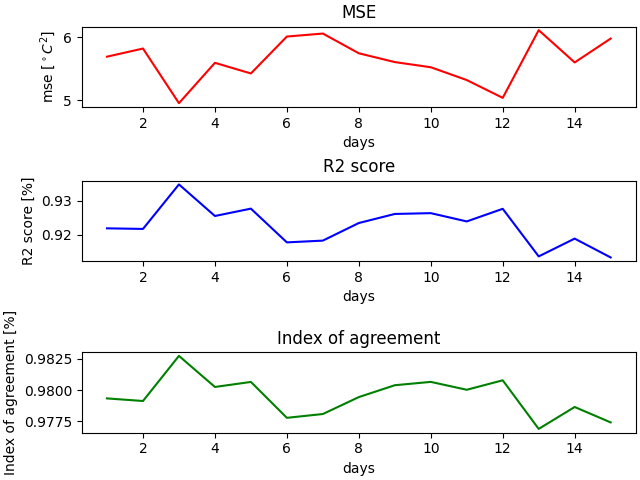
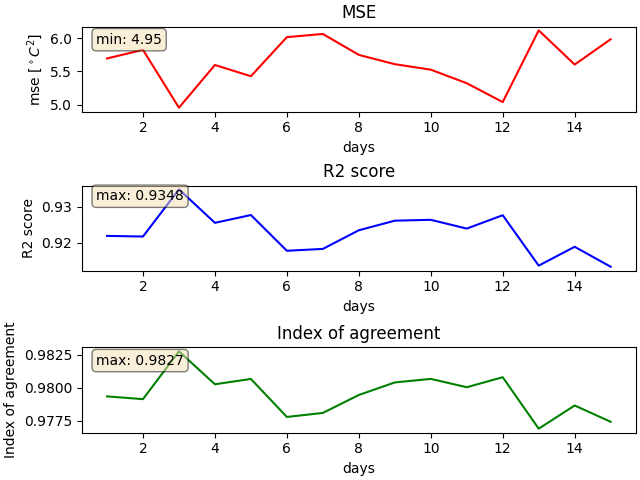
RFR

diff --git a/RFR_MSE.py b/RFR_MSE.py
@@ -13,7 +13,7 @@ def main():
     r2score = []
     ia = []
     feature_names = []
-    n = 15
+    n = 100
     for i in range(n):
         x, y = get_xy(i+1)
 
@@ -39,31 +39,35 @@ def main():
         r2score.append(r2_score(y_test, y_pred_LR))
 
     fig, axs = plt.subplots(3, 1, constrained_layout=True)
+    props = dict(boxstyle='round', facecolor='wheat', alpha=0.5)
 
     axs[0].plot([i + 1 for i in range(n)], mse, color="red")
     axs[0].set_title('MSE')
     axs[0].set_xlabel('days')
     axs[0].set_ylabel("mse [$^\circ$$C^{2}$]")
+    axs[0].text(0.7, max(mse) - 0.2, 'min: ' + str(round(min(mse), 2)), bbox=props)
 
     axs[1].plot([i + 1 for i in range(n)], r2score, color="blue")
     axs[1].set_title('R2 score')
     axs[1].set_xlabel('days')
-    axs[1].set_ylabel('R2 score [%]')
+    axs[1].set_ylabel('R2 score')
+    axs[1].text(0.7, max(r2score) - 0.003, 'max: ' + str(round(max(r2score), 4)), bbox=props)
 
     axs[2].plot([i + 1 for i in range(n)], ia, color="green")
     axs[2].set_title('Index of agreement')
     axs[2].set_xlabel('days')
-    axs[2].set_ylabel('Index of agreement [%]')
+    axs[2].set_ylabel('Index of agreement')
+    axs[2].text(0.7, max(ia) - 0.001, 'max: ' + str(round(max(ia), 4)), bbox=props)
 
     plt.savefig('./Wykresy/RFR_MSE'+str(n)+'.png', format='png')
 
     plt.show()
 
-    explainer = shap.Explainer(regressor_RFR.predict, x_test)
-    shap_values = explainer(x_test)
-    shap.summary_plot(shap_values, show=False, feature_names=feature_names, plot_type="bar")
-    plt.savefig('./Wykresy/RFR_'+str(n)+'days.png', format='png')
-    plt.close()
+    # explainer = shap.Explainer(regressor_RFR.predict, x_test)
+    # shap_values = explainer(x_test)
+    # shap.summary_plot(shap_values, show=False, feature_names=feature_names, plot_type="bar")
+    # plt.savefig('./Wykresy/RFR_'+str(n)+'days.png', format='png')
+    # plt.close()
 
 
 if __name__ == '__main__':

diff --git a/tem_SSN.py b/tem_SSN.py
@@ -3,7 +3,6 @@ from sklearn.model_selection import train_test_split
 from sklearn.preprocessing import StandardScaler
 from keras.models import Sequential
 from keras.layers import Dense
-from keras.wrappers.scikit_learn import KerasRegressor
 from sklearn.metrics import mean_squared_error, r2_score
 import numpy as np
 import matplotlib.pyplot as plt
@@ -60,8 +59,8 @@ plt.grid(True)
 plt.show()
 
 y_pred = build_model.predict(x_test)
-ia = (1 - (np.sum((y_test - y_pred) ** 2)) / (
-    np.sum((np.abs(y_pred - np.mean(y_test)) + np.abs(y_test - np.mean(y_test))) ** 2)))
+ia = (1 - (np.sum((y_test - y_pred) ** 2)) /
+      (np.sum((np.abs(y_pred - np.mean(y_test)) + np.abs(y_test - np.mean(y_test))) ** 2)))
 print(str(y_pred[0]) + " " + str(y_test[0]))
 
 print('Neural Network: ')
